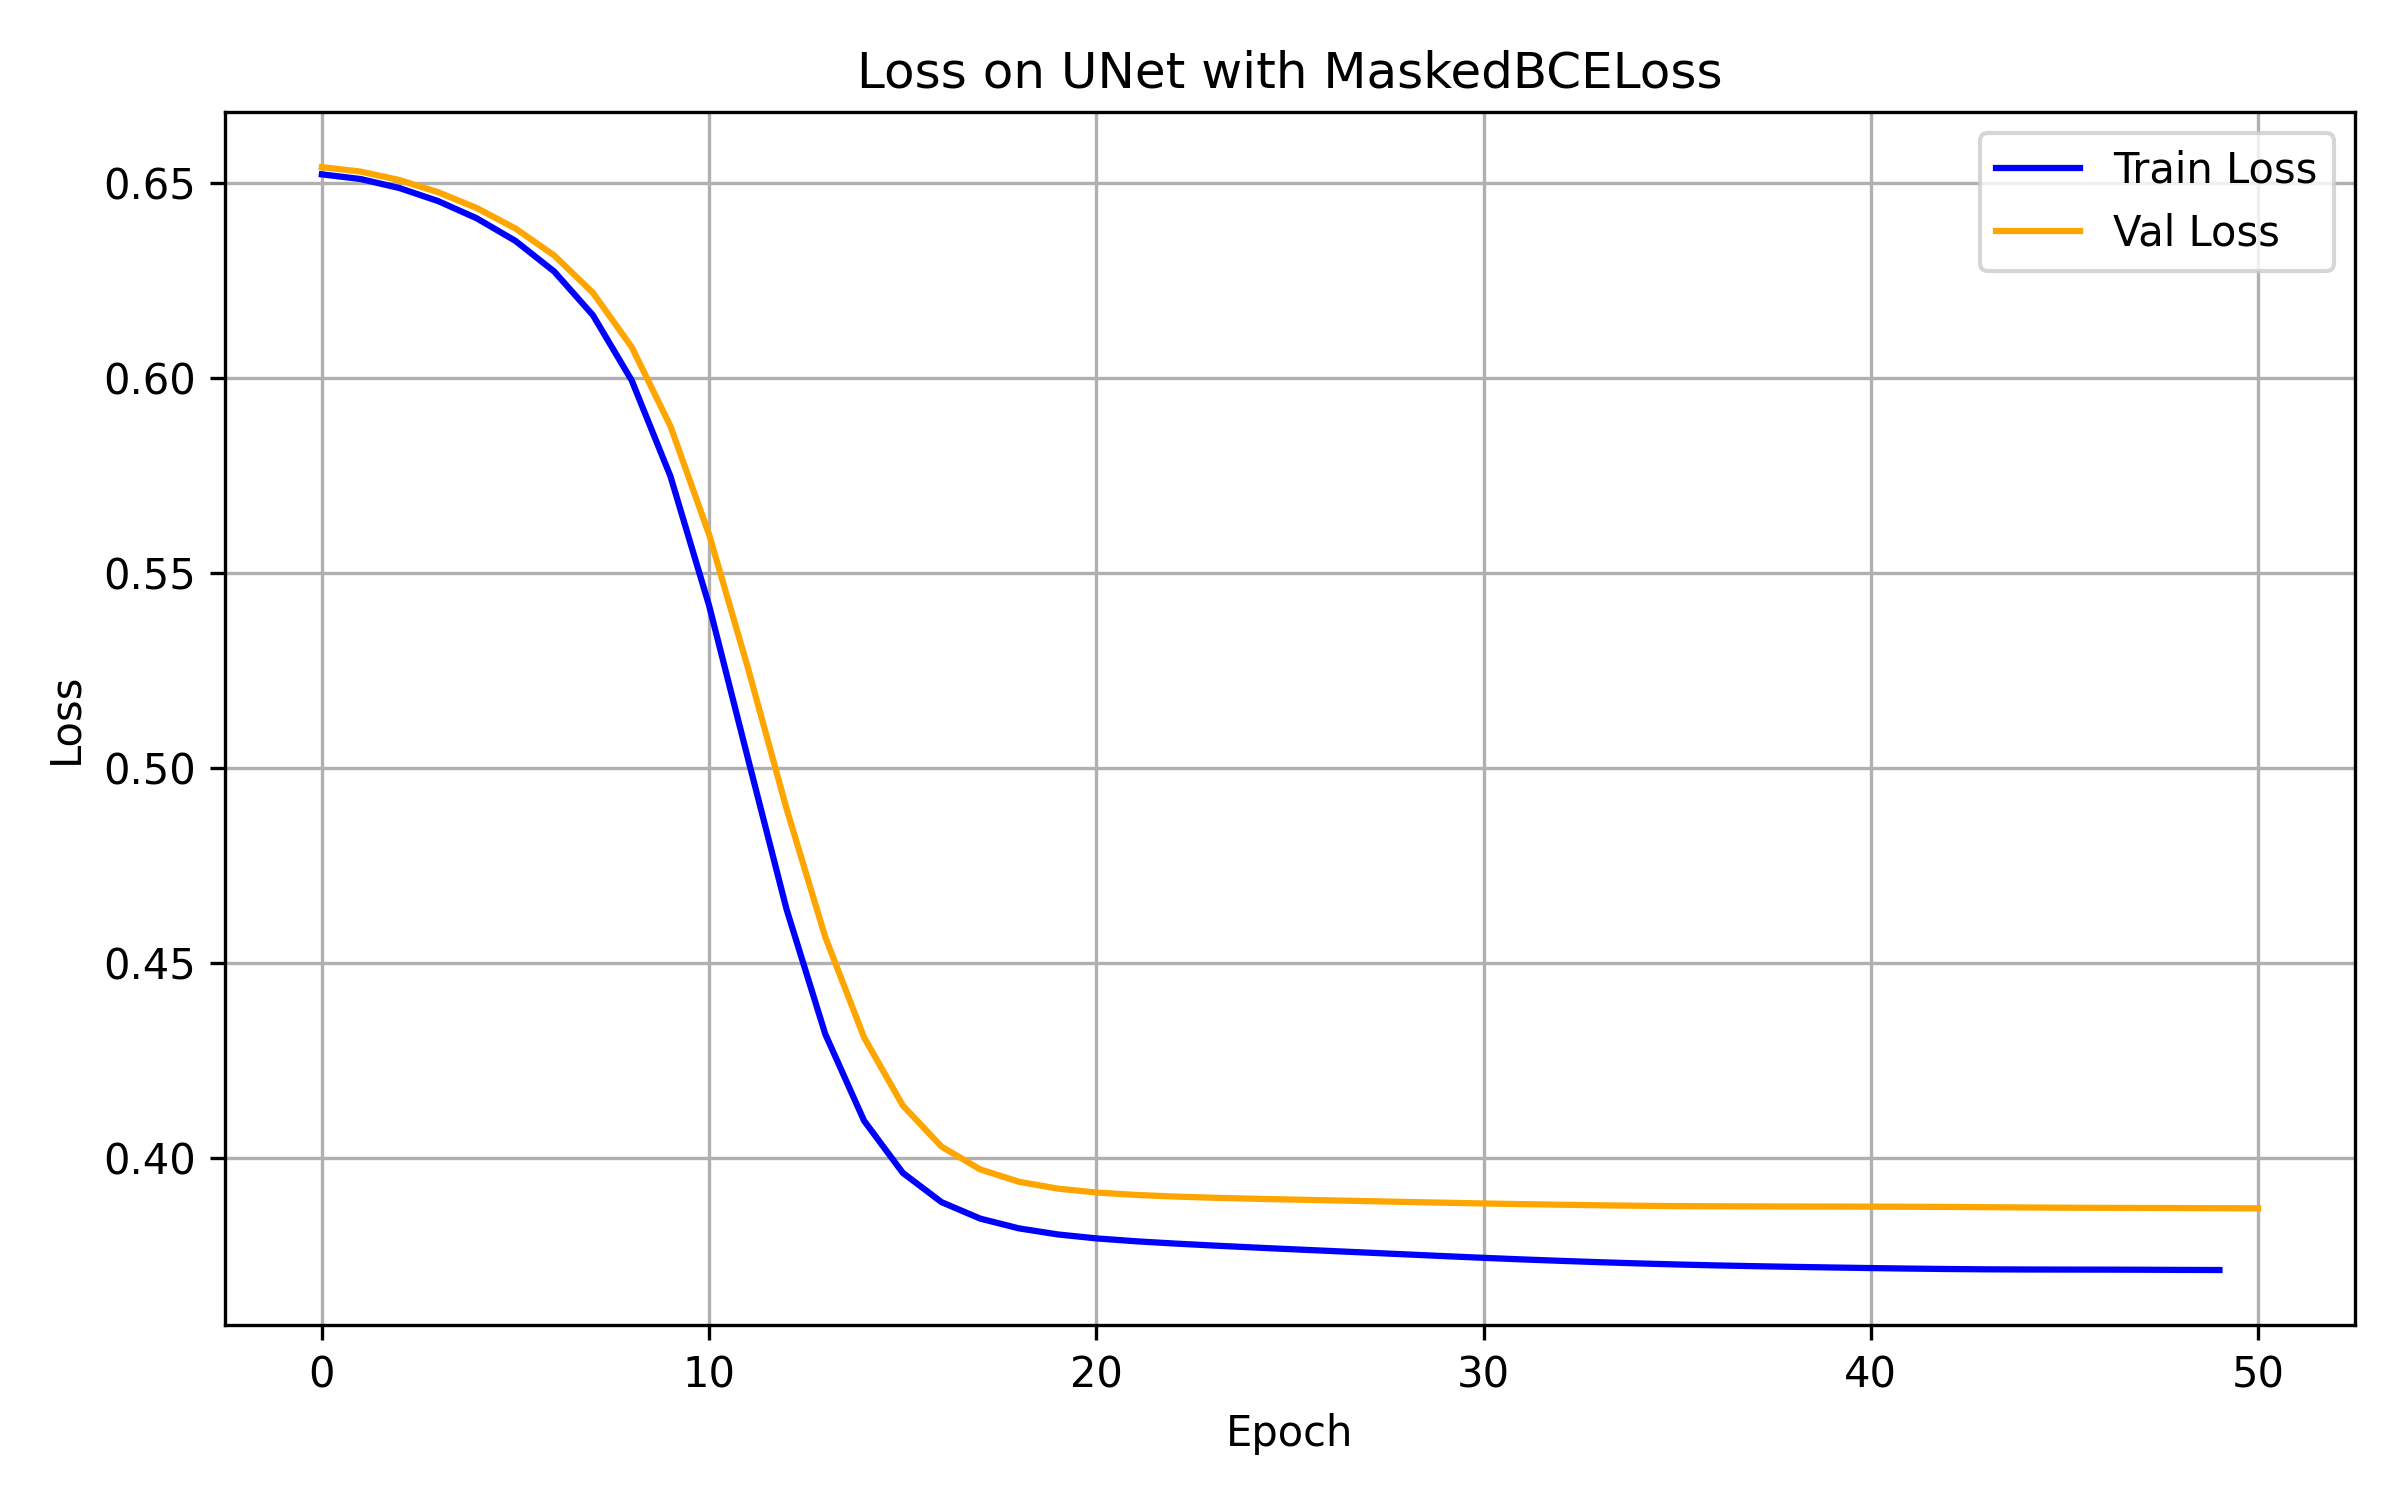
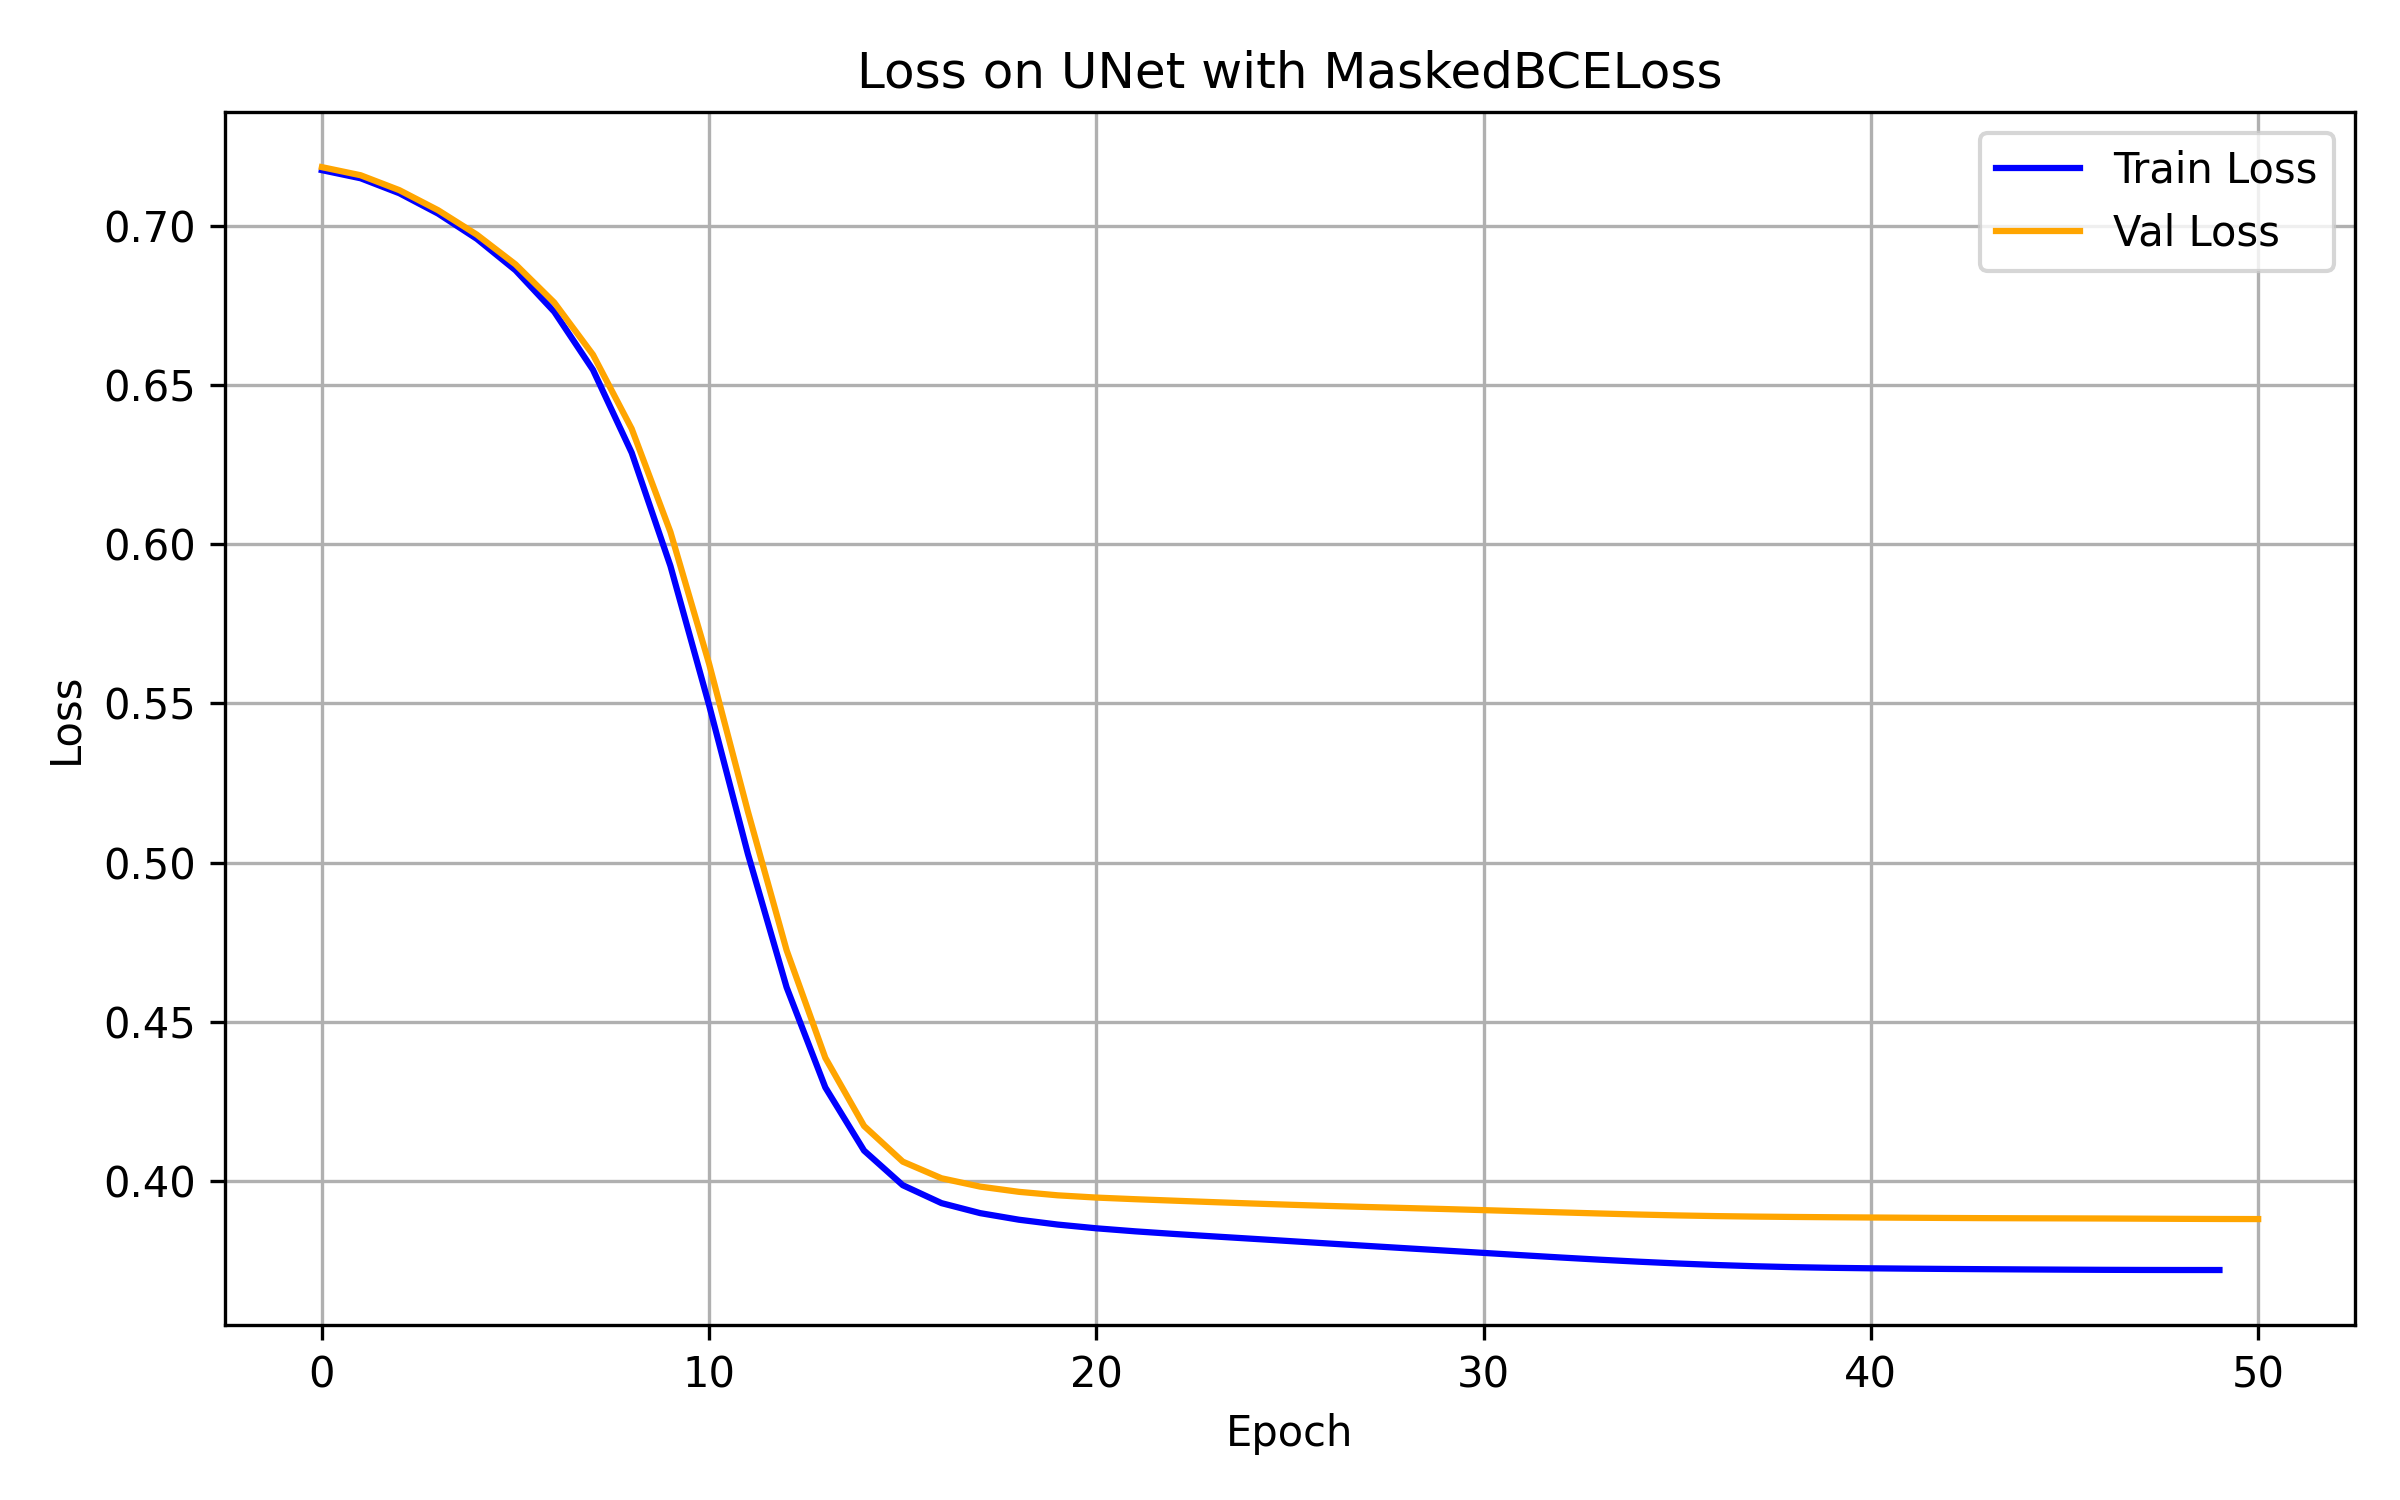
1. Bug fixed ; 2. Masked version loss and measure function

diff --git a/lib/losses.py b/lib/losses.py
@@ -2,48 +2,79 @@ import torch
 import torch.nn as nn
 import torch.nn.functional as F
 
-class BCELoss(nn.Module):
-    def __init__(self):
-        super().__init__()
 
-    def forward(self, y_pred, y_true):
-        loss = F.binary_cross_entropy_with_logits(y_pred, y_true)
+# ---------------------------
+# Masked BCE Loss
+# ---------------------------
+class BCELoss(nn.Module):
+    def __init__(self, pos_weight=None, with_mask=False):
+        super().__init__()
+        self.with_mask = with_mask
+        self.pos_weight = pos_weight
+
+    def forward(self, y_pred, y_true, mask=None):
+        loss = F.binary_cross_entropy_with_logits(y_pred, y_true, pos_weight=self.pos_weight, reduction='none')
+        if self.with_mask:
+            loss = loss * mask
+            denom = (mask.sum() + 1e-6)
+            loss = loss.sum()/denom
+        else:
+            loss = loss.mean()
         return loss
 
 class DiceLoss(nn.Module):
-    def __init__(self):
+    def __init__(self, with_mask=False, smooth=1e-7):
         super().__init__()
+        self.with_mask = with_mask
+        self.smooth = smooth
 
-    def forward(self, y_pred, y_true):
+    def forward(self, y_pred, y_true, mask=None):
         y_pred = torch.sigmoid(y_pred)
         
+        # flatten all
         y_pred = y_pred.view(-1)
         y_true = y_true.view(-1)
+        if self.with_mask and mask is not None:
+            mask = mask.float().view(-1)
+            intersection = (y_pred * y_true * mask).sum()
+            union = (y_pred * mask).sum() + (y_true * mask).sum()
+        else:
+            intersection = (y_pred * y_true).sum()
+            union = y_pred.sum() + y_true.sum()
         
-        up = (y_pred*y_true).mean() + 1
-        down = (y_pred+y_true).mean() +1
-        
-        loss = 1-(up/down)
+        dice = (2 * intersection + self.smooth) / (union + self.smooth)
+        loss = 1 - dice
         return loss
 
+
 class FocalLoss(nn.Module):
-    def __init__(self, alpha=0.25, gamma=2.0):
+    def __init__(self, alpha=0.25, gamma=2.0, with_mask=False):
         super().__init__()
         self.alpha = alpha
         self.gamma = gamma
+        self.with_mask = with_mask
 
-    def forward(self, logits, targets):
+    def forward(self, logits, targets, mask=None, eps=1e-7):
         bce = F.binary_cross_entropy_with_logits(logits, targets, reduction='none')
         pt = torch.exp(-bce)
         loss = self.alpha * (1-pt)**self.gamma * bce
-        return loss.mean()
+        
+        if self.with_mask and mask is not None:
+            mask = mask.float()
+            loss = loss * mask
+            loss = loss.sum() / (mask.sum() + eps)
+        else:
+            loss = loss.mean()
+            
+        return loss
 
 
 class BCELoss_TotalVariation(nn.Module):
-    def __init__(self, tv_weight=0.1):
+    def __init__(self, tv_weight=0.1, with_mask=False):
         super().__init__()
         self.tv_weight = tv_weight
-        self.bce = nn.BCEWithLogitsLoss()
+        self.bce = nn.BCEWithLogitsLoss(reduction='none')
+        self.with_mask = with_mask
 
     def forward(self, y_pred, y_true):
         # BCE Loss
@@ -53,7 +84,15 @@ class BCELoss_TotalVariation(nn.Module):
         probs = torch.sigmoid(y_pred)  # 转概率
         h_variation = torch.abs(probs[:, :, 1:, :] - probs[:, :, :-1, :]).mean()
         w_variation = torch.abs(probs[:, :, :, 1:] - probs[:, :, :, :-1]).mean()
-        tv_loss = h_variation + w_variation
+        
+        if self.with_mask and mask is not None:
+            mask_h = mask[:, :, 1:, :] * mask[:, :, :-1, :] 
+            mask_w = mask[:, :, :, 1:] * mask[:, :, :, :-1]
+            h_loss = (h_variation * mask_h).sum() / (mask_h.sum() + eps)
+            w_loss = (w_variation * mask_w).sum() / (mask_w.sum() + eps)
+            tv_loss = h_loss + w_loss
+        else:
+            tv_loss = h_variation + w_variation
         
         # total loss
         return bce_loss + self.tv_weight * tv_loss
@@ -73,17 +112,3 @@ def compute_pos_weight(train_loader, device='cpu'):
 
     pos_weight = num_background / (num_foreground + 1e-6)  # 防止除零
     return torch.tensor(pos_weight, dtype=torch.float32, device=device)
-
-
-# ---------------------------
-# Masked BCE Loss
-# ---------------------------
-class MaskedBCELoss(nn.Module):
-    def __init__(self):
-        super().__init__()
-
-    def forward(self, y_pred, y_true, mask):
-        loss = F.binary_cross_entropy_with_logits(y_pred, y_true, reduction='none')
-        loss = loss * mask
-        denom = mask.sum()
-        return loss.sum()/denom

diff --git a/measure.py b/measure.py
@@ -4,11 +4,17 @@ import torch
 
 def dice_coefficient_withLogtis(y_pred, y_true, eps=1e-7):
     y_pred = torch.sigmoid(y_pred)
-    y_pred = (y_pred > 0.5).float()
+    # y_pred = (y_pred > 0.5).float()
+    y_pred = y_pred.float()
     y_true = y_true.float()
     intersection = (y_pred * y_true).sum(dim=(1, 2, 3))
     union = y_pred.sum(dim=(1, 2, 3)) + y_true.sum(dim=(1, 2, 3))
     dice = (2 * intersection + eps) / (union + eps)
+    
+    print('\n'+'*'*20 + 'mask value evaluation' + '*'*20)
+    print(f'target: min={y_true.min()}, max={y_true.max()}, mean={y_true.mean()}')
+    print(f'predic: min={y_pred.min()}, max={y_pred.max()}, mean={y_pred.mean()}')
+    print('\n'+'*'*50)
     return dice.mean()
 
 def iou_score_withLogtis(y_pred, y_true, eps=1e-7):
@@ -56,8 +62,64 @@ def specificity_withLogtis(y_pred, y_true, eps=1e-7):
 # ---------------------------
 def masked_dice_coef(logits, targets, mask, eps=1e-6):
     probs = torch.sigmoid(logits)
-    pred = (probs>0.5).float()
+    # pred = (probs>0.5).float()
+    pred = probs.float()
+    targets = targets.float()
+    mask = mask.float()
+    
     intersection = (pred * targets * mask).sum(dim=(1,2,3))
     union = (pred*mask).sum(dim=(1,2,3)) + (targets*mask).sum(dim=(1,2,3))
     dice = (2*intersection + eps)/(union + eps)
-    return dice.mean().item()
+    
+    print('\n'+'*'*20 + 'mask value evaluation' + '*'*20)
+    print(f'mask: min={mask.min()}, max={mask.max()}, mean={mask.mean()}')
+    print(f'target: min={targets.min()}, max={targets.max()}, mean={targets.mean()}')
+    print(f'predic: min={pred.min()}, max={pred.max()}, mean={pred.mean()}')
+    print(f'logit: min={logits.min()}, max={logits.max()}, mean={logits.mean()}')
+    print('\n'+'*'*50)
+
+    return dice.mean()
+
+def masked_iou_score_withLogtis(y_pred, y_true, mask, eps=1e-7):
+    y_pred = torch.sigmoid(y_pred)
+    # y_pred = (y_pred > 0.5).float()
+    y_pred = y_pred.float()
+    y_true = y_true.float()
+    mask = mask.float()
+    intersection = (y_pred * y_true * mask).sum(dim=(1, 2, 3))
+    union = (y_pred*mask).sum(dim=(1, 2, 3)) + (y_true*mask).sum(dim=(1, 2, 3)) - intersection
+    iou = (intersection + eps) / (union + eps)
+    return iou.mean()
+
+def masked_pixel_accuracy_withLogtis(y_pred, y_true, mask):
+    y_pred = torch.sigmoid(y_pred)
+    y_pred = (y_pred > 0.5).float()
+    y_true = y_true.float()
+    # correct = ((y_pred*mask) == (y_true*mask)).float().sum(dim=(1, 2, 3)) -- 这么写会让mask之外的部分被计入正确的值
+    correct = ((y_pred == y_true).float() * mask).sum(dim=(1, 2, 3))
+    # (y_pred == y_true) 是逐像素比较的，比如y_pred = [0,1,0], y_true = [1,1,0] 那么结果是[False, True, True]
+    total = torch.numel(y_true[0])
+    return (correct / total).mean()
+
+
+def masked_sensitivity_withLogtis(y_pred, y_true, mask, eps=1e-7):
+    # 在所有真实病变中，有多少被模型正确预测出来 - False Negative错识别为健康的，它真实是病变的
+    # True Positive / (True Positive + False Negative)
+    y_pred = torch.sigmoid(y_pred)
+    y_pred = (y_pred > 0.5).float()
+    y_true = y_true.float()
+    tp = (y_pred * y_true * mask).sum(dim=(1, 2, 3))
+    fn = ((1 - y_pred) * y_true * mask).sum(dim=(1, 2, 3))
+    sens = (tp + eps) / (tp + fn + eps)
+    return sens.mean()
+
+def masked_specificity_withLogtis(y_pred, y_true, mask, eps=1e-7):
+    # 在所有健康的案例，有多少被模型正确预测出来 - False Positive错识别为病例的，它真实是健康的
+    # True Negative / (True Negative + False Positive)
+    y_pred = torch.sigmoid(y_pred)
+    y_pred = (y_pred > 0.5).float()
+    y_true = y_true.float()
+    tn = ((1 - y_pred) * (1 - y_true) * mask).sum(dim=(1, 2, 3))
+    fp = (y_pred * (1 - y_true) * mask).sum(dim=(1, 2, 3))
+    spec = (tn + eps) / (tn + fp + eps)
+    return spec.mean()

diff --git a/mytrain.py b/mytrain.py
@@ -45,15 +45,12 @@ def train_eval_ph2():
     val_loader = DataLoader(val_dataset, batch_size=4, shuffle=False, num_workers=3)
     test_loader = DataLoader(test_dataset, batch_size=4, shuffle=False, num_workers=3)
 
-    # loss - BCE    
-    # loss = nn.BCEWithLogitsLoss()
-
     # loss - Weight BCE
     device = 'cuda' if torch.cuda.is_available() else 'cpu'
     pos_weight=compute_pos_weight(train_loader, device)
     print(f'train pos_weight:{pos_weight}')
-    loss = nn.BCEWithLogitsLoss(pos_weight=pos_weight)
-    loss_name = "Weight-BCE"
+    loss = BCELoss(pos_weight=pos_weight) 
+    loss_name = "WeightedBCE"
     
     # focal loss
     # loss = FocalLoss()
@@ -105,10 +102,16 @@ def train_eval_DRIVE():
     
     custom_metrics = {
             "dice": masked_dice_coef, 
+            "iou" : masked_iou_score_withLogtis,
         }
     
-    loss = MaskedBCELoss()
-    loss_name = 'MaskedBCELoss'
+    # loss - Weight BCE
+    device = 'cuda' if torch.cuda.is_available() else 'cpu'
+    pos_weight=compute_pos_weight(train_loader, device)
+    print(f'train pos_weight:{pos_weight}')
+
+    loss = BCELoss(pos_weight=pos_weight, with_mask=True)
+    loss_name = 'MaskedWeightedBCE'
     
     model = LightningUNet2(loss_fn=loss, loss_name=loss_name, metrics=custom_metrics,
                            n_channels=3, n_classes=1, base_c=32, with_mask=True)
@@ -124,6 +127,6 @@ def train_eval_DRIVE():
     
 if __name__ == "__main__":
     print("Begin")
-    train_eval_ph2()
-    # train_eval_DRIVE()
+    # train_eval_ph2()
+    train_eval_DRIVE()
     print("Finished")

diff --git a/lib/dataset/DRIVEDataset.py b/lib/dataset/DRIVEDataset.py
@@ -58,7 +58,7 @@ class DRIVEDataset(torch.utils.data.Dataset):
             mask = torch.from_numpy(mask).unsqueeze(0)
             
             if self.transform:
-                img, gt, mask = self.transform(img, gt, mask)
+                img, gt, mask = self.transform(img=img, gt=gt, mask=mask)
             
             return img, gt, mask
         else:
@@ -69,7 +69,7 @@ class DRIVEDataset(torch.utils.data.Dataset):
             mask = torch.from_numpy(mask).unsqueeze(0)
             
             if self.transform:
-                img, mask = self.transform(img, mask)
+                img, mask = self.transform(img=img, mask=mask)
             
             return img, mask
 
@@ -109,7 +109,7 @@ class JointTransform:
         if gt is not None and not isinstance(gt, torch.Tensor):
             gt = TF.to_tensor(gt)
             
-        return (img, mask, gt) if gt is not None else (img, mask)
+        return (img, gt, mask) if gt is not None else (img, mask)
     
 if __name__ == '__main__':
     batch_size = 1
